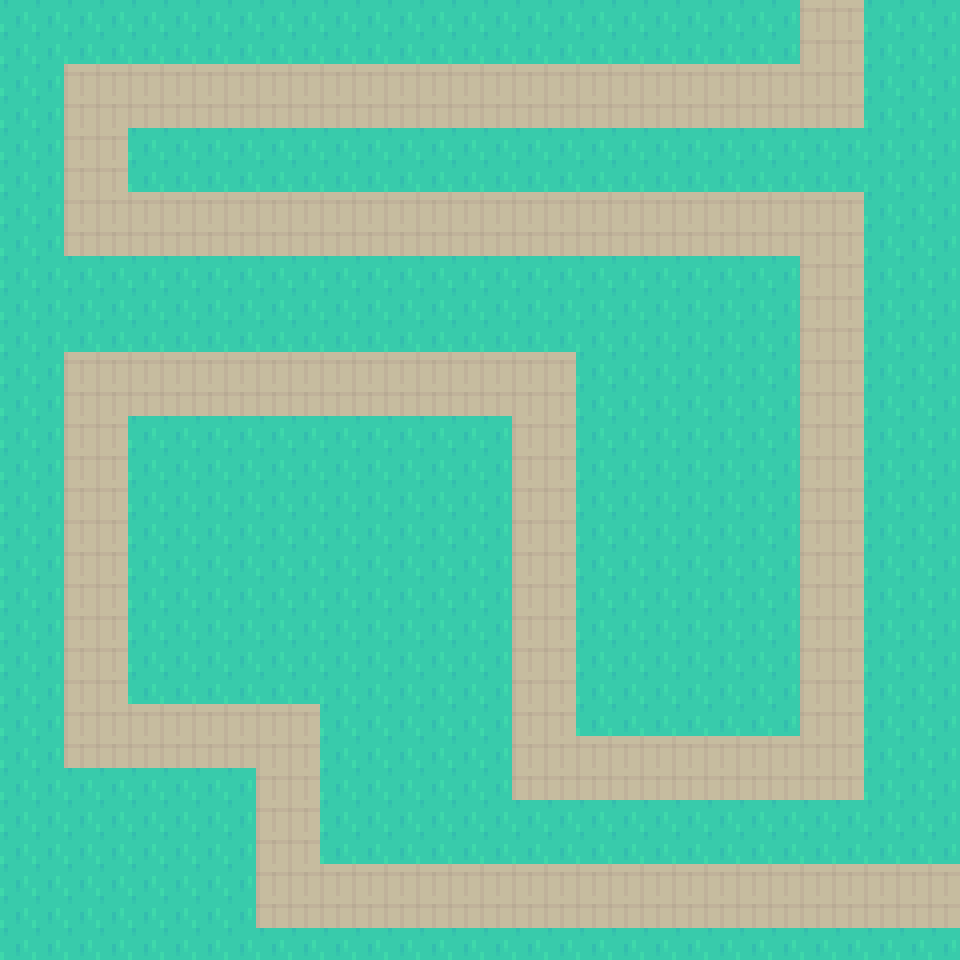
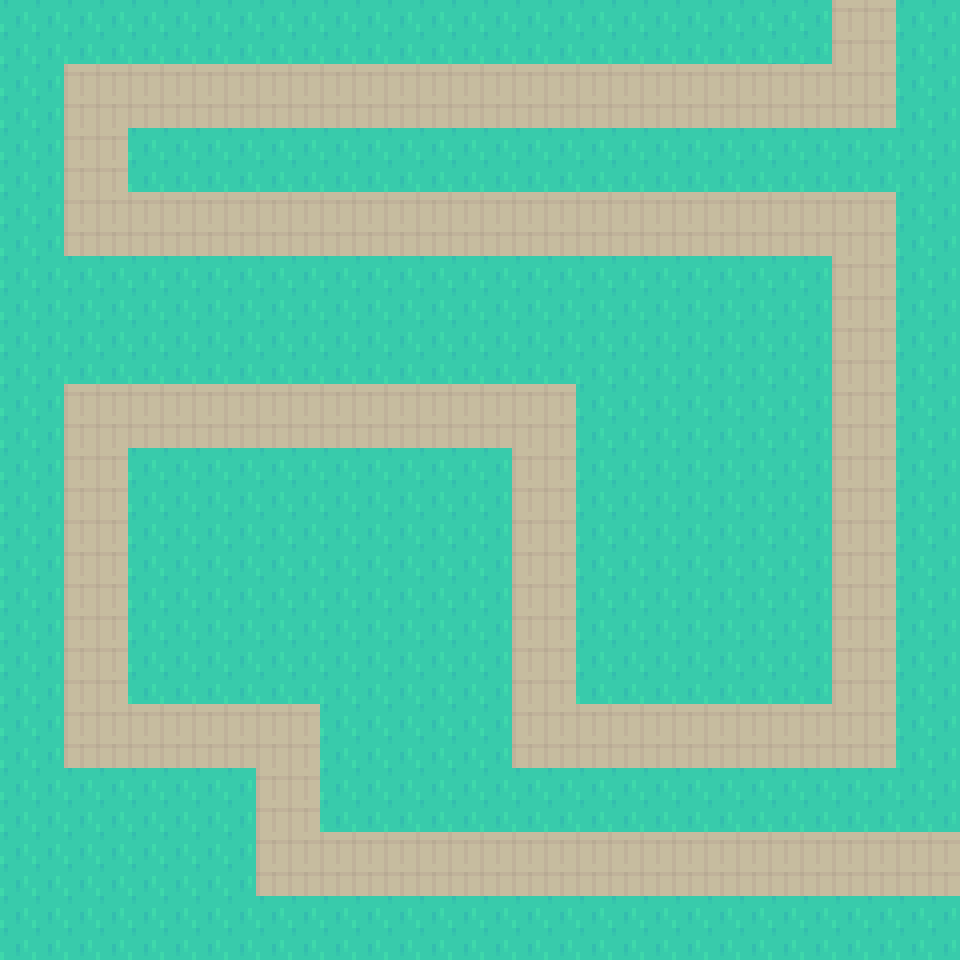
Fixed map and random spawning offsets

Changed region(s): [[0.25, 0.1875, 1.0, 0.9688], [0.0625, 0.3438, 0.625, 0.4688], [0.8125, 0.0, 0.9375, 0.1562]]

diff --git a/Alien.py b/Alien.py
@@ -9,9 +9,9 @@ class Alien(pygame.sprite.Sprite):
   def __init__ (self, health, speed, reward, path, level, image): 
     pygame.sprite.Sprite.__init__(self)
 
-    self.xOffset, self.yOffset = random.randrange(-24, 24), random.randrange(-24, 24)
-    self.randomOffset = random.randrange(0, 64)
-    self.lastRandom = pygame.time.get_ticks()
+    self.xOffset, self.yOffset = random.randrange(-8, 8), random.randrange(-8, 8) # Random offset
+    self.randomOffset = 0 # Random offset for turns 
+    self.lastRandom = pygame.time.get_ticks() # Last time the random offset was generated
 
     self.rect = pygame.Rect(path[0][0] + self.xOffset, path[0][1] + self.yOffset, 16, 16) # Rectangular Hitbox 
     self.health = health # Health of the alien
@@ -111,7 +111,6 @@ class Alien(pygame.sprite.Sprite):
 
     # Remaining Paths
     if self.turn < len(self.path):
-      alienOffset = 32
       if self.currentDirection == "left":
         if (self.rect.centerx - self.path[self.turn][0]) < self.randomOffset:
           self.calcNextPath()
@@ -130,6 +129,7 @@ class Alien(pygame.sprite.Sprite):
           self.calcNextPath()
           self.turn += 1
 
+  # Helper method to calculate the next path
   def calcNextPath(self):
     self.lastDistance = [9999,9999]
     self.velocity = [0,0]
@@ -149,13 +149,13 @@ class Alien(pygame.sprite.Sprite):
         self.currentDirection = "down"
     return
   
+  # Helper method generates the random offsets for turns 
   def generateRandom(self):
     currentTime = pygame.time.get_ticks()
     
-    if currentTime - self.lastRandom > 150:
-      self.randomOffset = random.randrange(-24, 24)
+    if currentTime - self.lastRandom > random.randrange(500, 1500):
+      self.randomOffset = random.randrange(-22, 22)
       self.lastRandom = currentTime
-      print("Random offset: " + str(self.randomOffset))
 
 
 # Alien subclasses

diff --git a/Level.py b/Level.py
@@ -26,13 +26,13 @@ class Level:
     # Maps
     # Map layout: [[start], [verticies]]: [[startingDirection], [x, y, nextDirection]]
     self.maps = []
-    self.maps.append([[823, 0, "down"], [831, 99, "left"], [95, 99, "down"], [100, 223, "right"], [835, 223, "down"], [835, 768, "left"], [545, 768, "up"], [545, 383, "left"], [96, 383, "down"], [96, 735, "right"], [288, 735, "down"], [288, 895, "right"]])
+    self.maps.append([[864, 0, "down"], [864, 96, "left"], [96, 96, "down"], [96, 223, "right"], [864, 223, "down"], [864, 736, "left"], [544, 736, "up"], [544, 414, "left"], [96, 414, "down"], [96, 735, "right"], [288, 735, "down"], [288, 864, "right"]])
     self.maps.append([[100, 200, "right"], [400, 200, "down"], [400, 600, "right"], [800, 600, "up"]])
     
     # Timing of spawns
     self.lastSpawnEasy = pygame.time.get_ticks()
     self.lastSpawnMed = pygame.time.get_ticks()
-    self.spawnRateEasy = 250
+    self.spawnRateEasy = 300
     self.spawnRateMed = 500
 
   # Getter / Setter methods
@@ -110,7 +110,7 @@ class Level:
   def spawn(self):
     currentTime = pygame.time.get_ticks()
 
-    if self.level <= 10 and self.spawned[0] < 50 + self.level * 3: # Spawning logic for first 5 levels
+    if self.level <= 10 and self.spawned[0] < 5 + self.level * 5: # Spawning logic for first 5 levels
       if currentTime - self.lastSpawnEasy > self.spawnRateEasy:
         self.aliens.add(Slime(self.maps[0], self))
         self.lastSpawnEasy = currentTime
